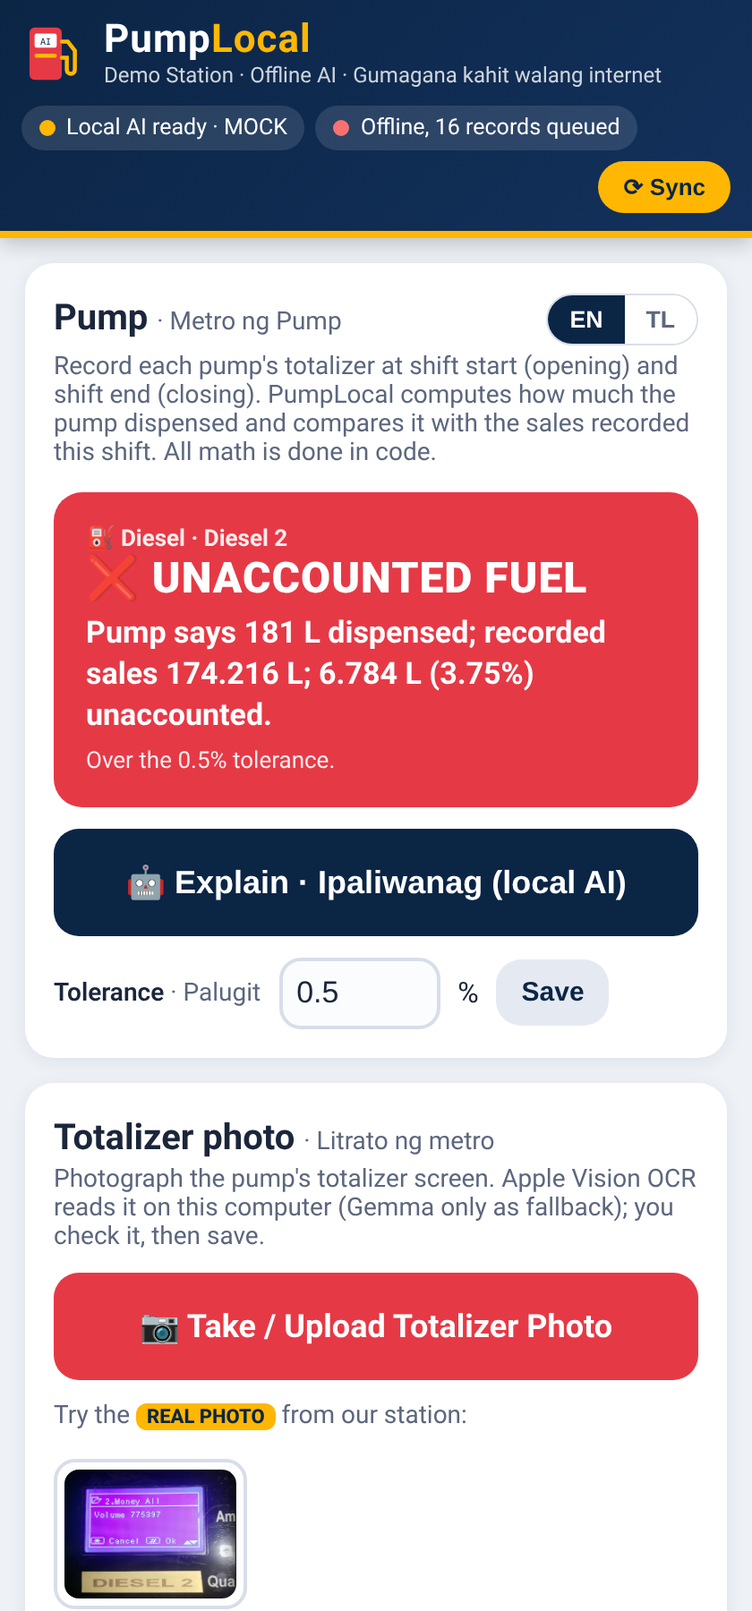
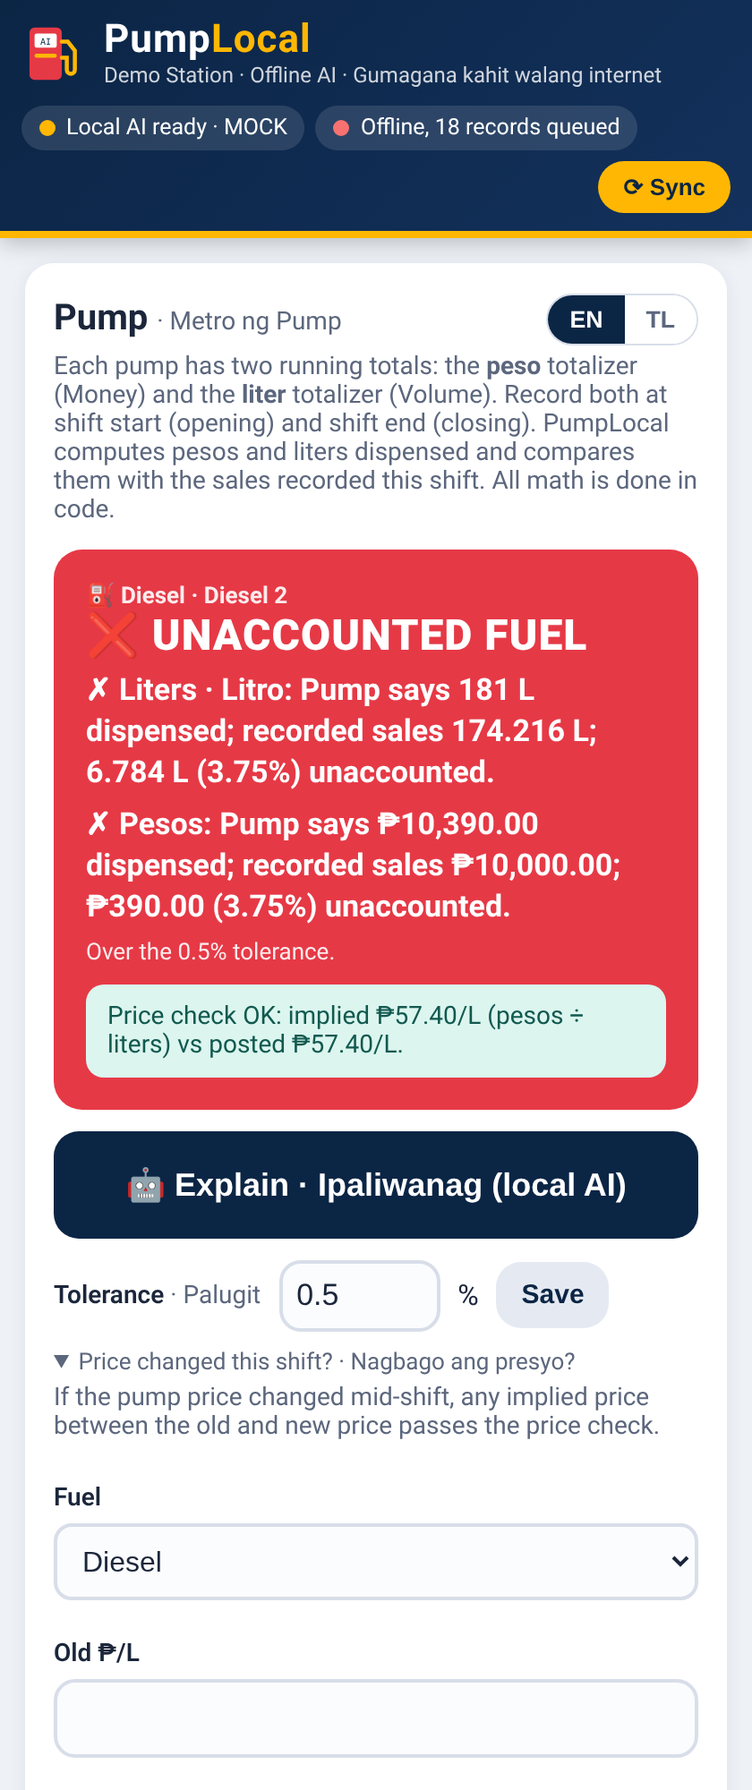
UI: Pump tab shows peso and liter totalizers per pump, both gaps, implied price check (warning) and a 'price changed this shift' old/new setting; photo form fills peso/liter fields

diff --git a/static/index.html b/static/index.html
@@ -208,8 +208,9 @@
     <div class="card">
       <div class="flex"><h2>Pump <span class="tl">· Metro ng Pump</span></h2>
         <span class="seg langseg"><button data-l="en" class="on">EN</button><button data-l="tl">TL</button></span></div>
-      <p class="hint">Record each pump's totalizer at shift start (opening) and shift end (closing). PumpLocal computes how much
-        the pump dispensed and compares it with the sales recorded this shift. All math is done in code.</p>
+      <p class="hint">Each pump has two running totals: the <b>peso</b> totalizer (Money) and the <b>liter</b> totalizer (Volume).
+        Record both at shift start (opening) and shift end (closing). PumpLocal computes pesos and liters dispensed and compares
+        them with the sales recorded this shift. All math is done in code.</p>
       <div id="pumpGaps"></div>
       <div style="height:12px"></div>
       <button class="btn navy" id="pumpExplainBtn">🤖 Explain · Ipaliwanag (local AI)</button>
@@ -219,13 +220,24 @@
         <input class="txt" id="pumpTol" inputmode="decimal" style="width:90px;font-size:17px;padding:8px">%
         <button class="btn small ghost" id="pumpTolBtn">Save</button>
       </div>
+      <details id="priceBox" style="margin-top:10px"><summary>Price changed this shift? · Nagbago ang presyo?</summary>
+        <p class="hint">If the pump price changed mid-shift, any implied price between the old and new price passes the price check.</p>
+        <div class="row3">
+          <div><label class="f" for="pcFuel">Fuel</label><select class="sel" id="pcFuel"><option>Diesel</option><option>Premium</option><option>Unleaded</option></select></div>
+          <div><label class="f" for="pcOld">Old ₱/L</label><input class="txt" id="pcOld" inputmode="decimal" style="font-size:17px;padding:10px"></div>
+          <div><label class="f" for="pcNew">New ₱/L</label><input class="txt" id="pcNew" inputmode="decimal" style="font-size:17px;padding:10px"></div>
+        </div>
+        <div style="height:8px"></div>
+        <button class="btn small ghost" id="pcSave">Save price change</button> <button class="btn small ghost" id="pcClear">Clear</button>
+      </details>
     </div>
     <div class="card">
       <h2>Totalizer photo <span class="tl">· Litrato ng metro</span></h2>
-      <p class="hint">Photograph the pump's totalizer screen. Apple Vision OCR reads it on this computer (Gemma only as fallback); you check it, then save.</p>
+      <p class="hint">Photograph the pump's totalizer screen. Apple Vision OCR reads it on this computer (Gemma only as fallback); you check it, then save.
+        One photo may show only one counter; save it, then photograph the other.</p>
       <label class="btn" for="pumpFile">📷 Take / Upload Totalizer Photo</label>
       <input type="file" id="pumpFile" accept="image/*" capture="environment">
-      <p class="hint" style="margin-top:12px">Try the <span class="realtag">REAL PHOTO</span> from our station:</p>
+      <p class="hint" style="margin-top:12px">Try the <span class="realtag">REAL PHOTO</span> from our station (peso totalizer):</p>
       <div class="samples" id="pumpSamples"></div>
       <img class="preview" id="pumpPreview" alt="Totalizer photo preview">
       <div id="pumpReadMsg"></div>
@@ -235,22 +247,24 @@
           <div><label class="f">Reading is <span class="tl">· Uri</span></label>
             <span class="seg" id="kindSeg"><button data-k="open" class="on">Opening</button><button data-k="close">Closing</button></span></div>
         </div>
-        <label class="f" for="pumpReading">Totalizer reading (digits as shown) <span class="tl">· Numero sa metro</span></label>
-        <input class="num" id="pumpReading" inputmode="decimal" placeholder="775397">
+        <div class="row2">
+          <div><label class="f" for="pumpAmount">Peso totalizer ₱ <span class="tl">· Money</span></label>
+            <input class="num" id="pumpAmount" inputmode="decimal" placeholder="775397"></div>
+          <div><label class="f" for="pumpVolume">Liter totalizer L <span class="tl">· Volume</span></label>
+            <input class="num" id="pumpVolume" inputmode="decimal" placeholder="13508"></div>
+        </div>
         <div class="calc" id="pumpReadCalc"></div>
         <button class="btn green" id="pumpReadSave">💾 Save reading · I-save</button>
       </div>
     </div>
     <div class="card">
       <h2>Pumps <span class="tl">· Mga pump at nozzle</span></h2>
-      <p class="hint">Unit and hidden decimals are per pump: 775397 with 2 decimals means 7,753.97; with 3, 775.397.</p>
+      <p class="hint">Readings are whole numbers as displayed. Only if a pump hides decimal places, set them per counter (775397 with 2 = 7,753.97).</p>
       <div id="pumpList"></div>
       <details id="addPumpBox"><summary>＋ Add a pump · Magdagdag</summary>
-        <div class="row4" style="margin-top:8px">
+        <div class="row2" style="margin-top:8px">
           <div><label class="f" for="newPumpName">Name</label><input class="txt" id="newPumpName" placeholder="Diesel 2" style="font-size:16px;padding:10px"></div>
           <div><label class="f" for="newPumpFuel">Fuel</label><select class="sel" id="newPumpFuel"><option>Diesel</option><option>Premium</option><option>Unleaded</option></select></div>
-          <div><label class="f" for="newPumpUnit">Unit</label><select class="sel" id="newPumpUnit"><option value="L">Liters</option><option value="PHP">Pesos</option></select></div>
-          <div><label class="f" for="newPumpDec">Decimals</label><select class="sel" id="newPumpDec"><option>0</option><option>1</option><option>2</option><option>3</option></select></div>
         </div>
         <div style="height:10px"></div>
         <button class="btn small navy" id="addPumpBtn">Add pump</button>
@@ -681,24 +695,35 @@
       });
   });
 
-  // ---------- pump totalizer (Metro ng Pump)
+  // ---------- pump totalizer (Metro ng Pump): peso + liter running totals
   var STATUS_LABEL = {
     UNACCOUNTED: ["❌ UNACCOUNTED FUEL", "❌ MAY HINDI NAITALA"], OVER_RECORDED: ["⚠ MORE SALES THAN PUMP", "⚠ SOBRA ANG NAITALA"],
     ERROR: ["❌ CHECK READING", "❌ SURIIN ANG READING"], OK: ["✅ MATCH", "✅ TUGMA"], INCOMPLETE: ["⏳ WAITING", "⏳ HINIHINTAY"] };
   function statusLabel(st) { var x = STATUS_LABEL[st] || [st, st]; return state.lang === "tl" ? x[1] : x[0]; }
-  function headlineOf(g) { return state.lang === "tl" ? g.headline_tl : g.headline; }
+  function hl(o) { return state.lang === "tl" ? o.headline_tl : o.headline; }
   function gapCard(g) {
-    var extra = g.flag && g.status !== "ERROR" ? "<div style='font-size:13px;opacity:.9;margin-top:6px'>" +
-      (state.lang === "tl" ? "Lampas sa " + esc(g.tolerance_pct) + "% na palugit." : "Over the " + esc(g.tolerance_pct) + "% tolerance.") + "</div>" :
-      (g.status === "OK" ? "<div style='font-size:13px;opacity:.9;margin-top:6px'>Tolerance " + esc(g.tolerance_pct) + "%</div>" : "");
+    var tl = state.lang === "tl", body = "";
+    if (g.liters || g.pesos) {
+      [["liters", "Liters · Litro"], ["pesos", "Pesos"]].forEach(function (k) {
+        var c = g[k[0]];
+        body += '<div class="head">' + (c ? (c.status === "OK" ? "✓ " : "✗ ") + esc(k[1]) + ": " + esc(hl(c)) :
+          esc(k[1]) + ": " + (tl ? "wala pang reading" : "not recorded")) + "</div>";
+      });
+    } else body = '<div class="head">' + esc(hl(g)) + "</div>";
+    if (g.flag && g.status !== "ERROR")
+      body += "<div style='font-size:13px;opacity:.9;margin-top:6px'>" + (tl ? "Lampas sa " + esc(g.tolerance_pct) + "% na palugit." :
+        "Over the " + esc(g.tolerance_pct) + "% tolerance.") + "</div>";
+    else if (g.status === "OK") body += "<div style='font-size:13px;opacity:.9;margin-top:6px'>Tolerance " + esc(g.tolerance_pct) + "%</div>";
+    if (g.price) body += '<div class="note ' + (g.price.ok === false ? "warn" : "ok") + '" style="margin-bottom:0">' +
+      (g.price.ok === false ? "⚠ " : "") + esc(tl ? g.price.text_tl : g.price.text) +
+      (g.price_change ? " (price change " + peso(g.price_change.old) + " → " + peso(g.price_change.new) + ")" : "") + "</div>";
     return '<div class="result ' + esc(g.status) + '"><div style="font-size:13px;font-weight:700;opacity:.9">⛽ ' + esc(g.fuel_type) +
-      " · " + esc(g.pumps.join(", ")) + '</div><div class="big" style="font-size:24px">' + statusLabel(g.status) + "</div>" +
-      '<div class="head">' + esc(headlineOf(g)) + "</div>" + extra + "</div>";
+      " · " + esc(g.pumps.join(", ")) + '</div><div class="big" style="font-size:24px">' + statusLabel(g.status) + "</div>" + body + "</div>";
   }
   function renderPumpGaps(check) {
     if (!check) return;
     $("pumpGaps").innerHTML = check.groups.length ? check.groups.map(gapCard).join("") :
-      '<div class="note info">No pump readings yet this shift. Add a pump below and record its opening reading. · Wala pang reading.</div>';
+      '<div class="note info">No pump readings yet this shift. Add a pump below and record its opening totalizers. · Wala pang reading.</div>';
   }
   function pumpSummaryHtml(check) {
     if (!check || !check.groups || !check.groups.length) return "";
@@ -708,28 +733,33 @@
   function loadPump() {
     return api("/api/pump").then(function (j) { if (j.error) { toast(j.error); return; } renderPump(j); });
   }
+  var SRC = { photo: " 📷", seed: " (demo)", carried: " (last shift)" };
   function renderPump(j) {
     state.pump = j;
     renderPumpGaps(j.check);
     if (document.activeElement !== $("pumpTol")) $("pumpTol").value = j.tolerance_pct;
-    var opt = function (v, label, cur) { return '<option value="' + esc(v) + '"' + (String(v) === String(cur) ? " selected" : "") + ">" + esc(label) + "</option>"; };
-    var src = function (s) { return s === "photo" ? " 📷" : s === "seed" ? " (demo)" : s === "carried" ? " (last shift)" : ""; };
+    var opt = function (v, cur) { return '<option value="' + v + '"' + (String(v) === String(cur) ? " selected" : "") + ">" + v + "</option>"; };
+    var inp = function (p, kind, counter) {
+      var v = p[kind + "_" + counter], src = SRC[p[kind + "_" + counter + "_source"]] || "";
+      return '<div><label class="f">' + (kind === "opening" ? "Opening" : "Closing") + (counter === "amount" ? " ₱" : " L") + esc(src) +
+        '</label><input class="txt" data-k="' + kind + '" data-c="' + counter + '" inputmode="decimal" style="font-size:17px;padding:10px" value="' +
+        esc(v || "") + '" placeholder="—"></div>';
+    };
     $("pumpList").innerHTML = j.check.pumps.length ? j.check.pumps.map(function (p) {
-      var u = p.unit === "PHP" ? "pesos" : "L";
-      var disp = p.status === "ERROR" ? '<span class="err">⚠ ' + esc(p.error) + "</span>" :
-        p.status === "OK" ? "Dispensed · Nailabas: <b>" + esc(p.dispensed_text) + "</b>" :
-        p.status === "INCOMPLETE" ? "Waiting for the " + (p.opening ? "closing" : "opening") + " reading." : "No readings this shift.";
-      var scaled = p.decimals && p.opening_value ? " · with " + p.decimals + " hidden decimals: " + esc(p.opening_value) +
-        (p.closing_value ? " → " + esc(p.closing_value) : "") + " " + u : "";
-      return '<div class="pumpcard' + (p.status === "ERROR" ? " flag" : "") + '" data-pid="' + p.id + '">' +
+      var disp = [];
+      if (p.dispensed_amount_text) disp.push("<b>" + esc(p.dispensed_amount_text) + "</b>");
+      if (p.dispensed_volume_text) disp.push("<b>" + esc(p.dispensed_volume_text) + "</b>");
+      var line = p.errors.length ? '<span class="err">⚠ ' + esc(p.errors.join(" ")) + "</span>" :
+        disp.length ? "Dispensed · Nailabas: " + disp.join(" · ") + (p.status === "INCOMPLETE" ? " (other counter incomplete)" : "") :
+        p.status === "NONE" ? "No readings this shift." : "Waiting for the other reading.";
+      return '<div class="pumpcard' + (p.errors.length ? " flag" : "") + '">' +
         "<h3>" + esc(p.name) + ' <span class="chip ' + fuelClass(p.fuel_type) + '">' + esc(p.fuel_type) + "</span></h3>" +
-        '<div class="row4">' +
-        '<div><label class="f">Opening' + esc(src(p.opening_source)) + '</label><input class="txt" data-k="open" inputmode="decimal" style="font-size:17px;padding:10px" value="' + esc(p.opening || "") + '" placeholder="—"></div>' +
-        '<div><label class="f">Closing' + esc(src(p.closing_source)) + '</label><input class="txt" data-k="close" inputmode="decimal" style="font-size:17px;padding:10px" value="' + esc(p.closing || "") + '" placeholder="—"></div>' +
-        '<div><label class="f">Unit</label><select class="sel" data-f="unit">' + opt("L", "Liters", p.unit) + opt("PHP", "Pesos", p.unit) + "</select></div>" +
-        '<div><label class="f">Decimals</label><select class="sel" data-f="decimals">' + [0, 1, 2, 3].map(function (d) { return opt(d, d, p.decimals); }).join("") + "</select></div>" +
-        "</div>" +
-        '<div class="disp">' + disp + scaled + "</div>" +
+        '<div class="row4">' + inp(p, "opening", "amount") + inp(p, "closing", "amount") + inp(p, "opening", "volume") + inp(p, "closing", "volume") + "</div>" +
+        '<div class="disp">' + line + "</div>" +
+        '<details style="margin-top:6px"><summary>Hidden decimals (default 0)</summary><div class="row2">' +
+        '<div><label class="f">Peso counter</label><select class="sel" data-f="amount_decimals">' + [0, 1, 2, 3].map(function (d) { return opt(d, p.amount_decimals); }).join("") + "</select></div>" +
+        '<div><label class="f">Liter counter</label><select class="sel" data-f="volume_decimals">' + [0, 1, 2, 3].map(function (d) { return opt(d, p.volume_decimals); }).join("") + "</select></div>" +
+        "</div></details>" +
         '<div style="height:8px"></div><button class="btn small green" data-save="' + p.id + '">💾 Save</button></div>';
     }).join("") : '<p class="hint">No pumps yet. Add one below, or read a totalizer photo.</p>';
     fillPumpSelect(state.detected);
@@ -750,28 +780,33 @@
   function setKind(k) { state.kind = k; document.querySelectorAll("#kindSeg button").forEach(function (b) { b.classList.toggle("on", b.dataset.k === k); }); pumpReadCalc(); }
   document.querySelectorAll("#kindSeg button").forEach(function (b) { b.addEventListener("click", function () { setKind(b.dataset.k); }); });
   function selectedPump() { var id = $("pumpSel").value; return (state.pump && state.pump.check.pumps.filter(function (p) { return String(p.id) === id; })[0]) || null; }
-  function autoKind() { var p = selectedPump(); setKind(p && p.opening && !p.closing ? "close" : (p && p.opening ? (state.kind || "close") : "open")); }
+  function autoKind() {
+    var p = selectedPump(), c = state.detectedCounter || "amount";
+    setKind(p && p["opening_" + c] && !p["closing_" + c] ? "close" : (p && p["opening_" + c] ? (state.kind || "close") : "open"));
+  }
   $("pumpSel").addEventListener("change", autoKind);
-  $("pumpReading").addEventListener("input", pumpReadCalc);
+  ["pumpAmount", "pumpVolume"].forEach(function (id) { $(id).addEventListener("input", pumpReadCalc); });
   function pumpReadCalc() {
-    var p = selectedPump(), v = $("pumpReading").value.replace(/[\s,]/g, ""), kindWord = state.kind === "close" ? "CLOSING" : "OPENING";
-    if (!v) { $("pumpReadCalc").textContent = "Type or read the number shown on the pump."; return; }
-    if (!/^\d+(\.\d+)?$/.test(v)) { $("pumpReadCalc").innerHTML = '<span style="color:#8a1c25">Digits only, e.g. 775397.</span>'; return; }
-    if (!p) { $("pumpReadCalc").innerHTML = "Will add the pump, then save " + esc(v) + " as its <b>" + kindWord + "</b> reading (liters, 0 decimals; change on the pump card)."; return; }
-    var val = v.indexOf(".") >= 0 ? v : (p.decimals ? (Number(v) / Math.pow(10, p.decimals)).toFixed(p.decimals) : v);
-    var msg = "Will save as " + esc(p.name) + " <b>" + kindWord + "</b>: " + esc(v) + " = <b>" + esc(val) +
-      (p.unit === "PHP" ? " pesos" : " L") + "</b> (" + p.decimals + " decimals)";
-    var other = state.kind === "close" ? p.opening_value : p.closing_value;
-    if (other !== null && other !== undefined && (state.kind === "close" ? Number(val) < Number(other) : Number(val) > Number(other)))
-      msg += '<div class="note err">⚠ Closing would be lower than opening (' + esc(state.kind === "close" ? other : val) + "). Check the photo and decimals.</div>";
-    $("pumpReadCalc").innerHTML = msg;
+    var p = selectedPump(), kindWord = state.kind === "close" ? "CLOSING" : "OPENING", parts = [], warn = "";
+    [["pumpAmount", "amount", "₱", "peso"], ["pumpVolume", "volume", "L", "liter"]].forEach(function (x) {
+      var v = $(x[0]).value.replace(/[\s,₱]/g, "");
+      if (!v) return;
+      if (!/^\d+(\.\d+)?$/.test(v)) { warn += '<div class="note err">The ' + x[3] + " totalizer must be digits only, e.g. 775397.</div>"; return; }
+      var d = p ? p[x[1] + "_decimals"] : 0, val = v.indexOf(".") >= 0 || !d ? v : (Number(v) / Math.pow(10, d)).toFixed(d);
+      parts.push(x[3] + " " + esc(v) + (val !== v ? " = " + esc(val) : "") + " " + x[2]);
+      var other = p && (state.kind === "close" ? p["opening_" + x[1] + "_value"] : p["closing_" + x[1] + "_value"]);
+      if (other && (state.kind === "close" ? Number(val) < Number(other) : Number(val) > Number(other)))
+        warn += '<div class="note err">⚠ ' + x[3] + " closing would be lower than opening (" + esc(other) + "). Check the photo.</div>";
+    });
+    if (!parts.length && !warn) { $("pumpReadCalc").textContent = "Type or read the peso and/or liter totalizer."; return; }
+    $("pumpReadCalc").innerHTML = (parts.length ? "Will save " + (p ? esc(p.name) : "the new pump") + " <b>" + kindWord + "</b>: " + parts.join(" · ") : "") + warn;
   }
   $("pumpFile").addEventListener("change", function (e) { if (e.target.files[0]) prepImage(e.target.files[0], $("pumpPreview"), extractPump); e.target.value = ""; });
   function extractPump(dataUrl, full) {
     busy(true, "Reading totalizer on this computer… · Binabasa ang metro…");
     $("overlaySub").textContent = state.reader === "gemma" || !state.vision
       ? "Gemma (" + state.model + ") is reading the photo. This can take a few minutes on a laptop."
-      : "Apple Vision OCR first (expected to take about a second). Gemma only if no Volume/Total number is found.";
+      : "Apple Vision OCR first (expected to take about a second). Gemma only if no Money/Volume number is found.";
     var body = { image: dataUrl }; if (full) body.image_full = full;
     var ready = state.pump ? Promise.resolve() : loadPump();
     Promise.all([api("/api/pump/extract", body), ready]).then(function (res) {
@@ -779,16 +814,17 @@
       busy(false);
       $("overlaySub").textContent = "Running on this computer. The first request can take a minute while the model loads.";
       state.detected = { name: j.pump_name || "", fuel: j.fuel_type || "" };
+      state.detectedCounter = j.amount ? "amount" : (j.volume ? "volume" : "amount");
       $("pumpReadForm").style.display = "block";
-      $("pumpReading").value = j.reading || "";
+      $("pumpAmount").value = j.amount || (!j.volume && j.unassigned ? j.unassigned : "") || "";
+      $("pumpVolume").value = j.volume || "";
       fillPumpSelect(state.detected);
       state.pumpSource = j.ok ? "photo" : "manual";
       var html = readerLine(j);
       if (j.fallback_reason) html += '<div class="note warn">' + esc(j.fallback_reason) + "</div>";
-      if (j.ok) {
-        html += '<div class="note info">' + esc(j.message) + (j.pump_name ? " Label: <b>" + esc(j.pump_name) + "</b>." : "") +
-          (j.label ? " Next to: <b>" + esc(j.label) + "</b>" + (j.unit_hint ? " (looks like " + (j.unit_hint === "PHP" ? "pesos" : "liters") + "; the unit is set per pump)" : "") + "." : "") + "</div>";
-      } else html += '<div class="note err">⚠ ' + esc(j.message || j.error) + "</div>";
+      if (j.ok) html += '<div class="note info">' + esc(j.message) + (j.pump_name ? " Label: <b>" + esc(j.pump_name) + "</b>." : "") +
+        (j.amount ? " Peso totalizer: <b>" + esc(j.amount) + "</b>." : "") + (j.volume ? " Liter totalizer: <b>" + esc(j.volume) + "</b>." : "") + "</div>";
+      else html += '<div class="note err">⚠ ' + esc(j.message || j.error) + "</div>";
       (j.notes || []).forEach(function (n) { html += '<div class="note warn">' + esc(n) + "</div>"; });
       if (j.raw) html += "<details><summary>" + (j.reader === "vision" ? "OCR text" : "Model output") + "</summary><pre>" + esc(j.raw) + "</pre></details>";
       $("pumpReadMsg").innerHTML = html;
@@ -803,19 +839,20 @@
     return true;
   }
   $("pumpReadSave").addEventListener("click", function () {
-    var reading = $("pumpReading").value, id = $("pumpSel").value, kind = state.kind;
-    if (!reading) { toast("Enter the reading · Ilagay ang numero"); return; }
+    var amount = $("pumpAmount").value, volume = $("pumpVolume").value, id = $("pumpSel").value, kind = state.kind;
+    if (!amount && !volume) { toast("Enter the peso and/or liter totalizer · Ilagay ang numero"); return; }
     var go = function (pid) {
-      return api("/api/pump/reading", { pump_id: Number(pid), kind: kind, reading: reading, source: state.pumpSource || "manual" })
+      return api("/api/pump/reading", { pump_id: Number(pid), kind: kind, amount: amount, volume: volume, source: state.pumpSource || "manual" })
         .then(function (j) {
+          if (j.error) { toast(j.error, 3500); return; }
           state.detected = null;
-          if (afterPumpSave(j, "Saved ✓ " + (kind === "close" ? "closing" : "opening") + " reading · Na-save")) {
+          if (afterPumpSave(j, "Saved ✓ " + (kind === "close" ? "closing" : "opening") + " · Na-save")) {
             $("pumpReadForm").style.display = "none"; $("pumpReadMsg").innerHTML = ""; $("pumpPreview").style.display = "none"; }
         });
     };
     if (id === "new") {
       var d = state.detected || {};
-      api("/api/pump/save", { name: d.name, fuel_type: d.fuel || "Diesel", unit: "L", decimals: 0 }).then(function (j) {
+      api("/api/pump/save", { name: d.name, fuel_type: d.fuel || "Diesel" }).then(function (j) {
         if (j.error) { toast(j.error, 3500); return; } state.pump = j; go(j.pump.id); });
     } else if (id) go(id);
     else toast("Add a pump first · Magdagdag muna ng pump");
@@ -823,26 +860,36 @@
   $("pumpList").addEventListener("click", function (e) {
     var pid = e.target.dataset && e.target.dataset.save; if (!pid) return;
     var card = e.target.closest(".pumpcard"), p = state.pump.check.pumps.filter(function (x) { return String(x.id) === pid; })[0];
-    var unit = card.querySelector('[data-f="unit"]').value, decimals = Number(card.querySelector('[data-f="decimals"]').value);
-    var open = card.querySelector('[data-k="open"]').value.trim(), close = card.querySelector('[data-k="close"]').value.trim();
+    var ad = Number(card.querySelector('[data-f="amount_decimals"]').value), vd = Number(card.querySelector('[data-f="volume_decimals"]').value);
     var chain = Promise.resolve({}), changed = false, warnings = [];
     var keep = function (j) { (j.warnings || []).forEach(function (w) { warnings.push(w); }); return j; };
-    if (unit !== p.unit || decimals !== p.decimals) { changed = true;
-      chain = chain.then(function () { return api("/api/pump/save", { id: p.id, name: p.name, fuel_type: p.fuel_type, unit: unit, decimals: decimals }); }); }
-    if (open && open !== (p.opening || "")) { changed = true;
-      chain = chain.then(function (j) { return j.error ? j : api("/api/pump/reading", { pump_id: p.id, kind: "open", reading: open }).then(keep); }); }
-    if (close && close !== (p.closing || "")) { changed = true;
-      chain = chain.then(function (j) { return j.error ? j : api("/api/pump/reading", { pump_id: p.id, kind: "close", reading: close }).then(keep); }); }
+    if (ad !== p.amount_decimals || vd !== p.volume_decimals) { changed = true;
+      chain = chain.then(function () { return api("/api/pump/save", { id: p.id, name: p.name, fuel_type: p.fuel_type, amount_decimals: ad, volume_decimals: vd }); }); }
+    ["opening", "closing"].forEach(function (kind) {
+      var body = { pump_id: p.id, kind: kind === "opening" ? "open" : "close" }, any = false;
+      ["amount", "volume"].forEach(function (c) {
+        var v = card.querySelector('[data-k="' + kind + '"][data-c="' + c + '"]').value.trim();
+        if (v && v !== (p[kind + "_" + c] || "")) { body[c] = v; any = true; }
+      });
+      if (any) { changed = true; chain = chain.then(function (j) { return j.error ? j : api("/api/pump/reading", body).then(keep); }); }
+    });
     if (!changed) { toast("Nothing changed"); return; }
     chain.then(function (j) { if (!j.error) j.warnings = warnings; afterPumpSave(j, "Saved ✓ " + p.name); });
   });
   $("addPumpBtn").addEventListener("click", function () {
-    api("/api/pump/save", { name: $("newPumpName").value, fuel_type: $("newPumpFuel").value, unit: $("newPumpUnit").value,
-      decimals: Number($("newPumpDec").value) }).then(function (j) {
+    api("/api/pump/save", { name: $("newPumpName").value, fuel_type: $("newPumpFuel").value }).then(function (j) {
       if (afterPumpSave(j, "Pump added ✓")) { $("newPumpName").value = ""; $("addPumpBox").open = false; } });
   });
   $("pumpTolBtn").addEventListener("click", function () {
     api("/api/pump/settings", { tolerance_pct: $("pumpTol").value }).then(function (j) { afterPumpSave(j, "Tolerance saved ✓"); });
+  });
+  $("pcSave").addEventListener("click", function () {
+    api("/api/pump/price_change", { fuel_type: $("pcFuel").value, old_price: $("pcOld").value, new_price: $("pcNew").value })
+      .then(function (j) { afterPumpSave(j, "Price change saved ✓"); });
+  });
+  $("pcClear").addEventListener("click", function () {
+    api("/api/pump/price_change", { fuel_type: $("pcFuel").value, old_price: "", new_price: "" })
+      .then(function (j) { $("pcOld").value = ""; $("pcNew").value = ""; afterPumpSave(j, "Price change cleared"); });
   });
   $("pumpExplainBtn").addEventListener("click", function () {
     busy(true, "Explaining on this computer… · Ipinapaliwanag…");
